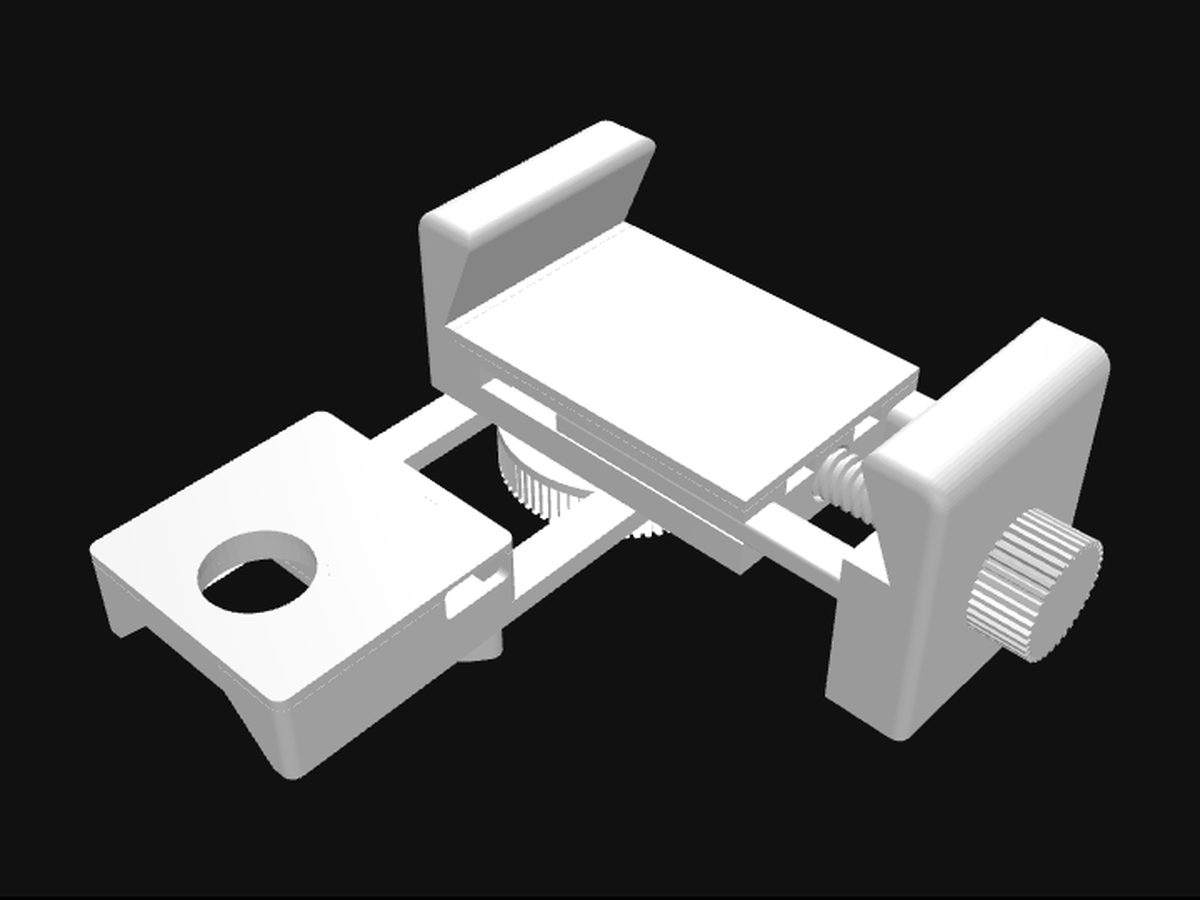
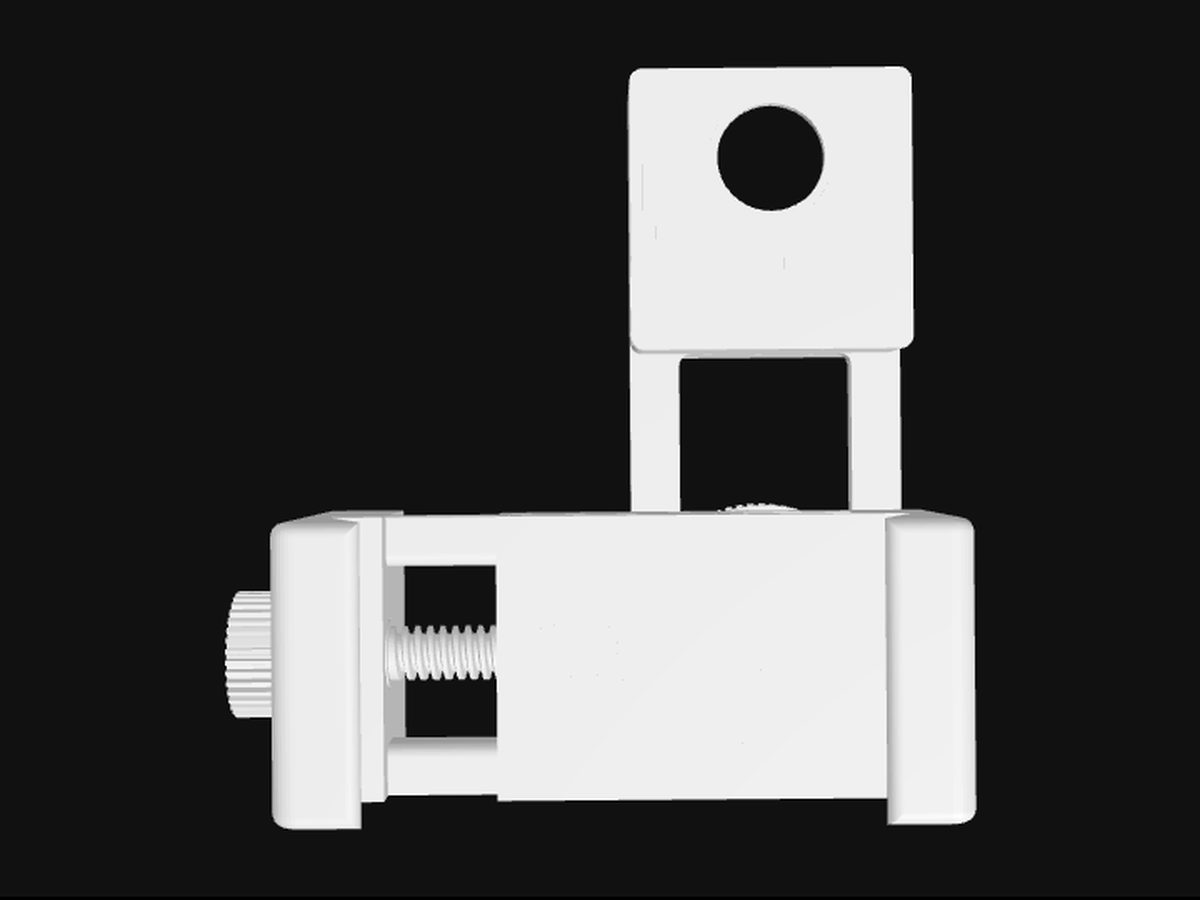
VectorCam 2 models: overhead view for assembly, no auto-rotate
Claude-Session: https://claude.ai/code/session_018HqdxKVMnZJugJVamVY5ug

diff --git a/index.html b/index.html
@@ -157,7 +157,7 @@ footer{display:flex;justify-content:space-between;gap:12px;flex-wrap:wrap;border
     <div class="gallery">
       <figure>
         <div class="frame">
-          <div class="model" data-stl="models/VectorCam2-assembly.stl" data-az="3.9" data-el="0.7" role="img" aria-label="Rotating 3D model of the assembled VectorCam 2">
+          <div class="model" data-stl="models/VectorCam2-assembly.stl" data-az="0" data-el="1.5707" data-rotate="false" role="img" aria-label="3D model of the assembled VectorCam 2, seen from above">
             <img src="images/vectorcam2-assembly.jpg" alt="" width="1200" height="900" loading="lazy">
           </div>
         </div>
@@ -180,7 +180,7 @@ footer{display:flex;justify-content:space-between;gap:12px;flex-wrap:wrap;border
       </figure>
       <figure>
         <div class="frame">
-          <div class="model" data-stl="models/VectorCam2.stl" data-az="5.41" data-el="0.85" role="img" aria-label="Rotating 3D model of the VectorCam 2 print plate">
+          <div class="model" data-stl="models/VectorCam2.stl" data-az="5.41" data-el="0.85" data-rotate="false" role="img" aria-label="3D model of the VectorCam 2 print plate">
             <img src="images/vectorcam2-model.jpg" alt="" width="1200" height="900" loading="lazy">
           </div>
         </div>
@@ -329,7 +329,7 @@ function mount(box) {
   controls.enableZoom = false;
   controls.enablePan = false;
   controls.enableDamping = true;
-  controls.autoRotate = !still;
+  controls.autoRotate = !still && box.dataset.rotate !== 'false';
   controls.autoRotateSpeed = 1.2;
 
   const size = () => {
